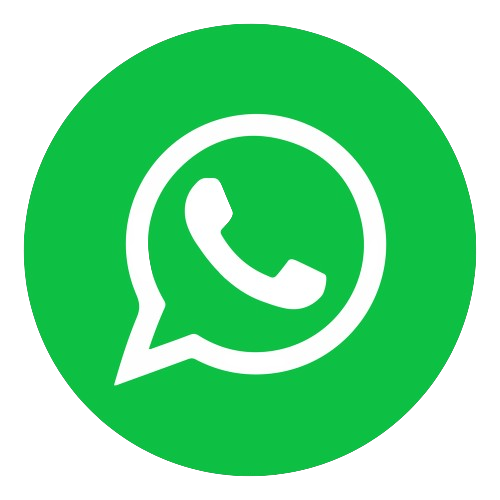
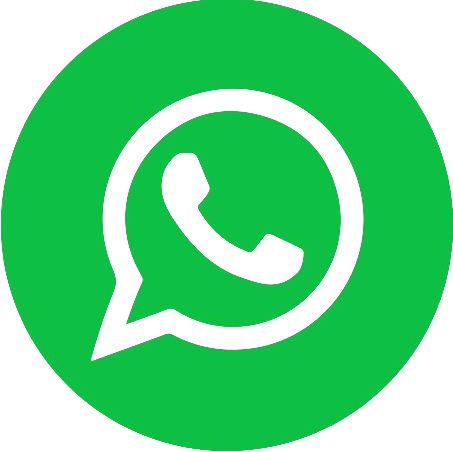
.

Changed region(s): [[0.0, 0.0, 1.0, 1.0], [0.4945, 0.4956, 0.6181, 0.5575], [0.4636, 0.4956, 0.4945, 0.5265]]

diff --git a/index.html b/index.html
@@ -23,8 +23,11 @@
         </main>
         <footer>
             <p>Contate-nos:</p>
+            <img src="./img/icon_insta.png" alt="">
             <a href="">Instagram</a>
+            <img src="./img/icon_email.png" alt="">
             <a href="">E-mail</a>
+            <img src="./img/icon_whats.png" alt="">
             <a href="">WhatsApp</a>
         </footer>
     </body>
